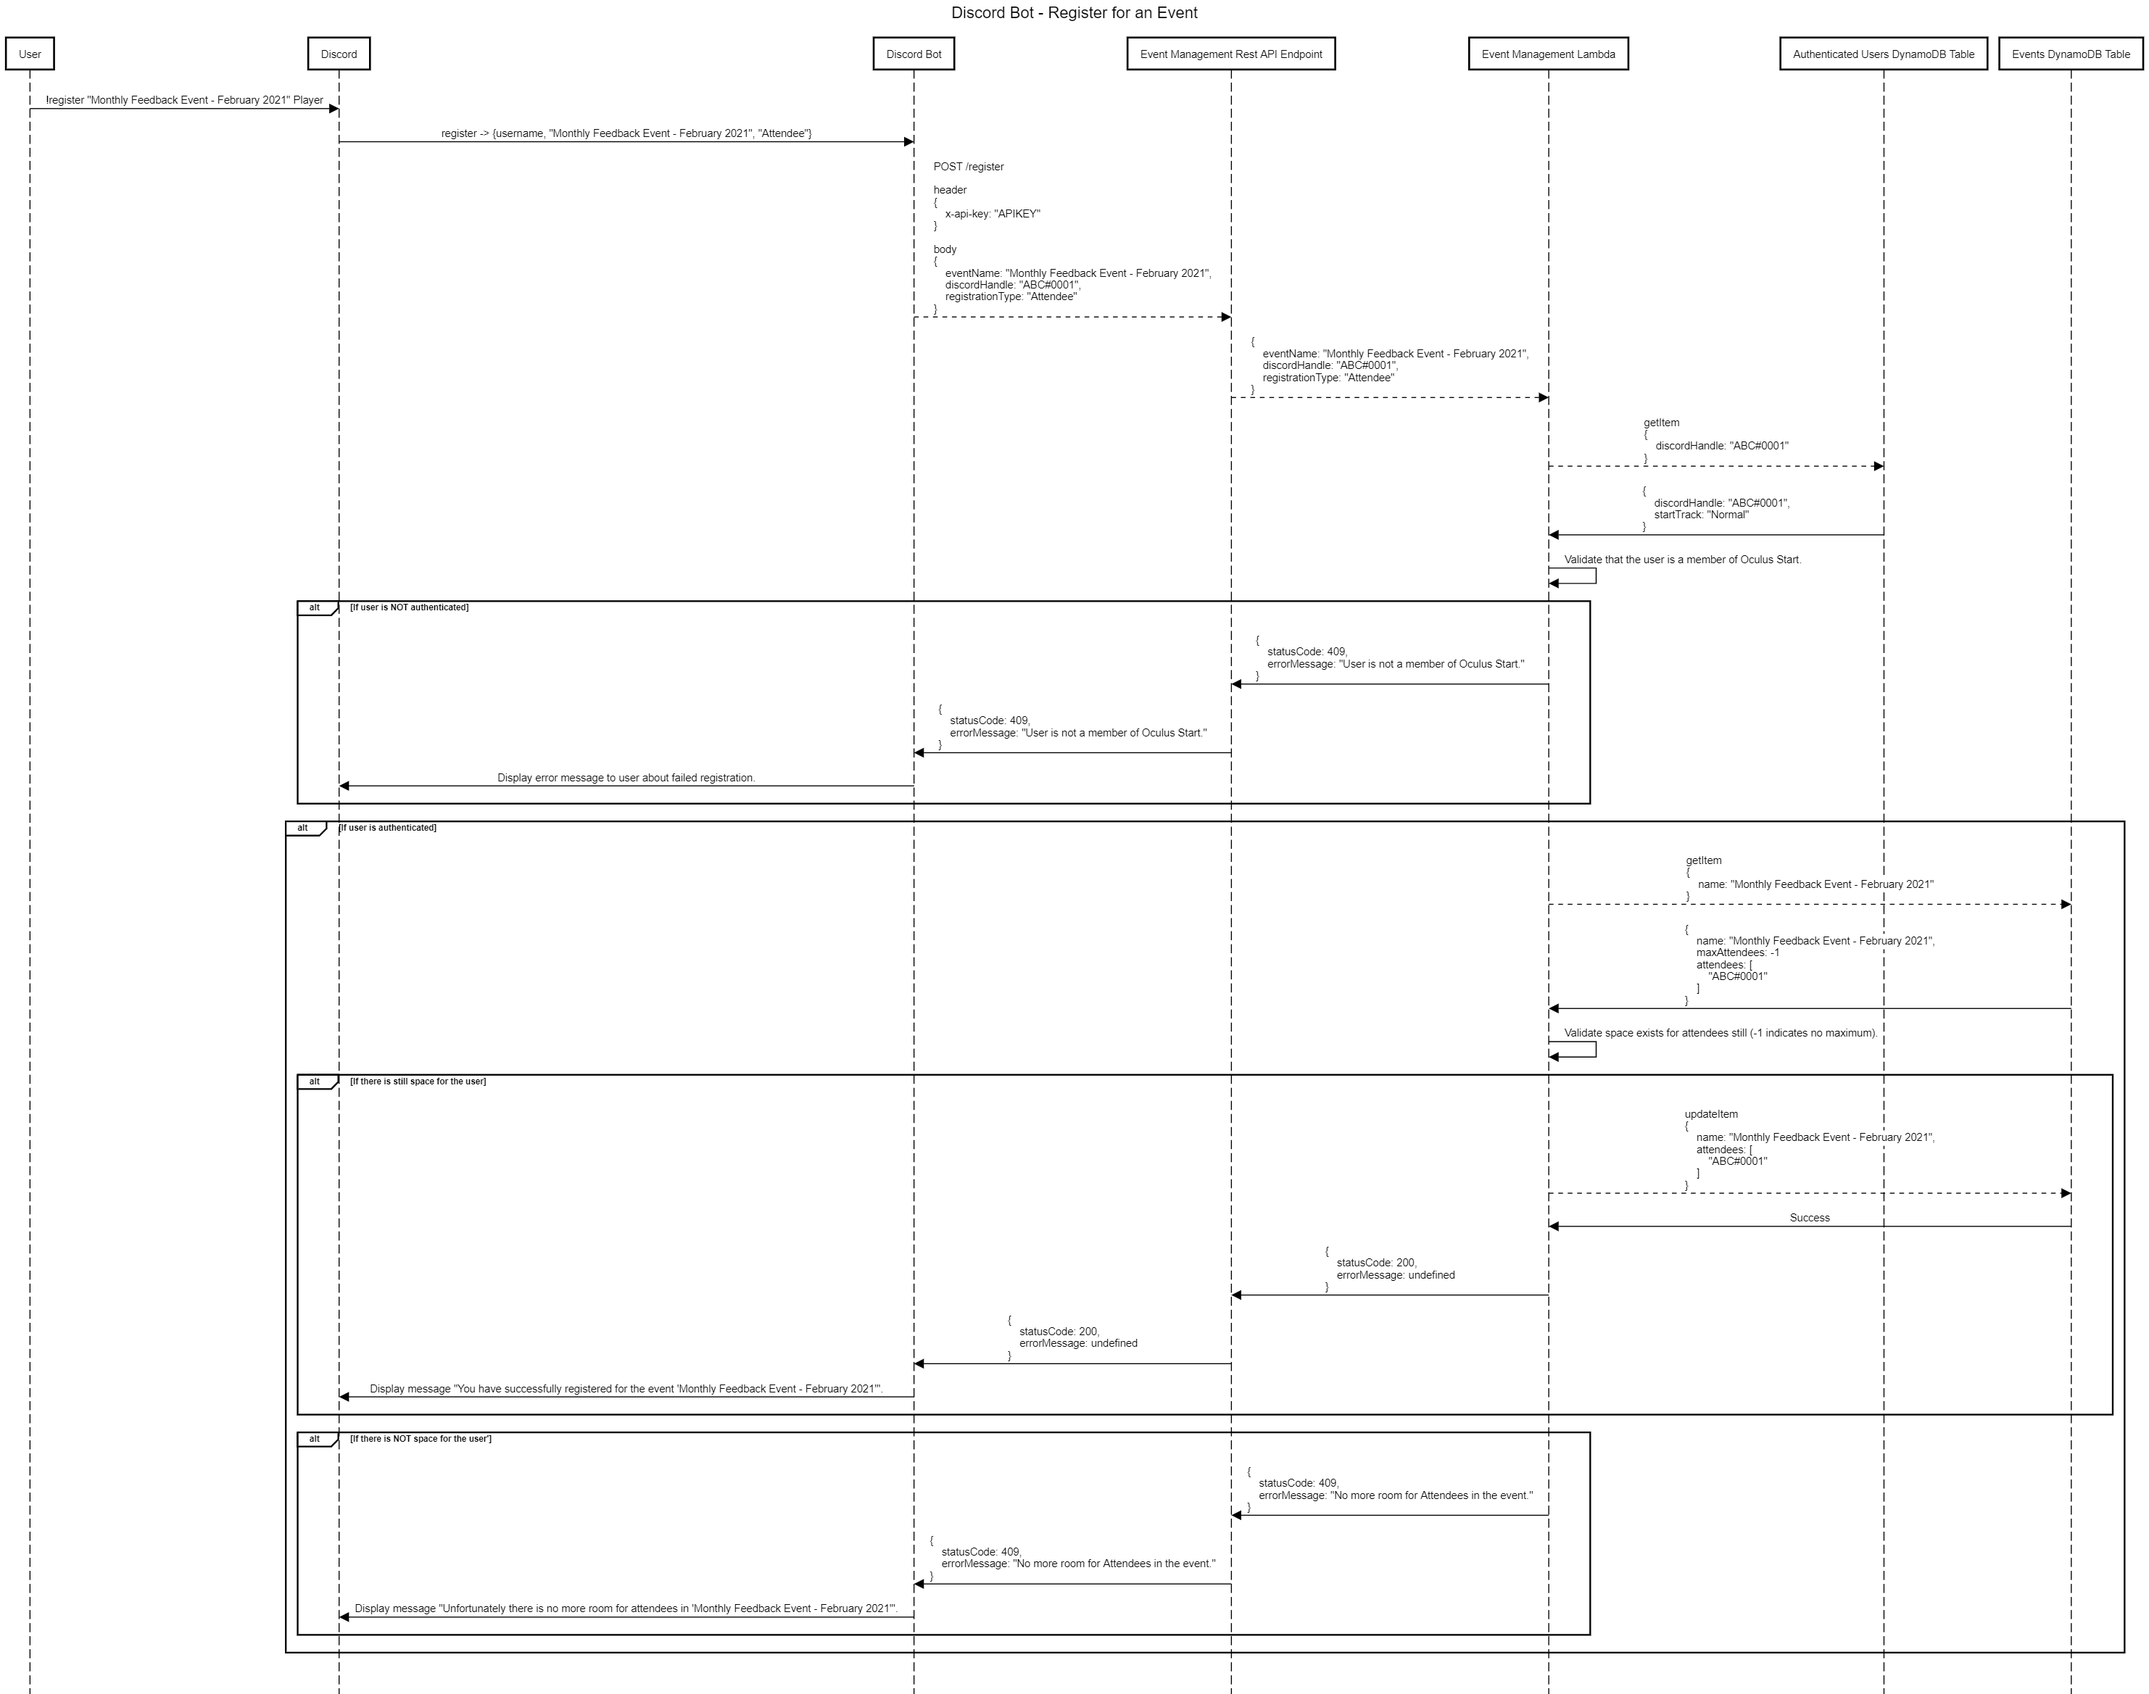
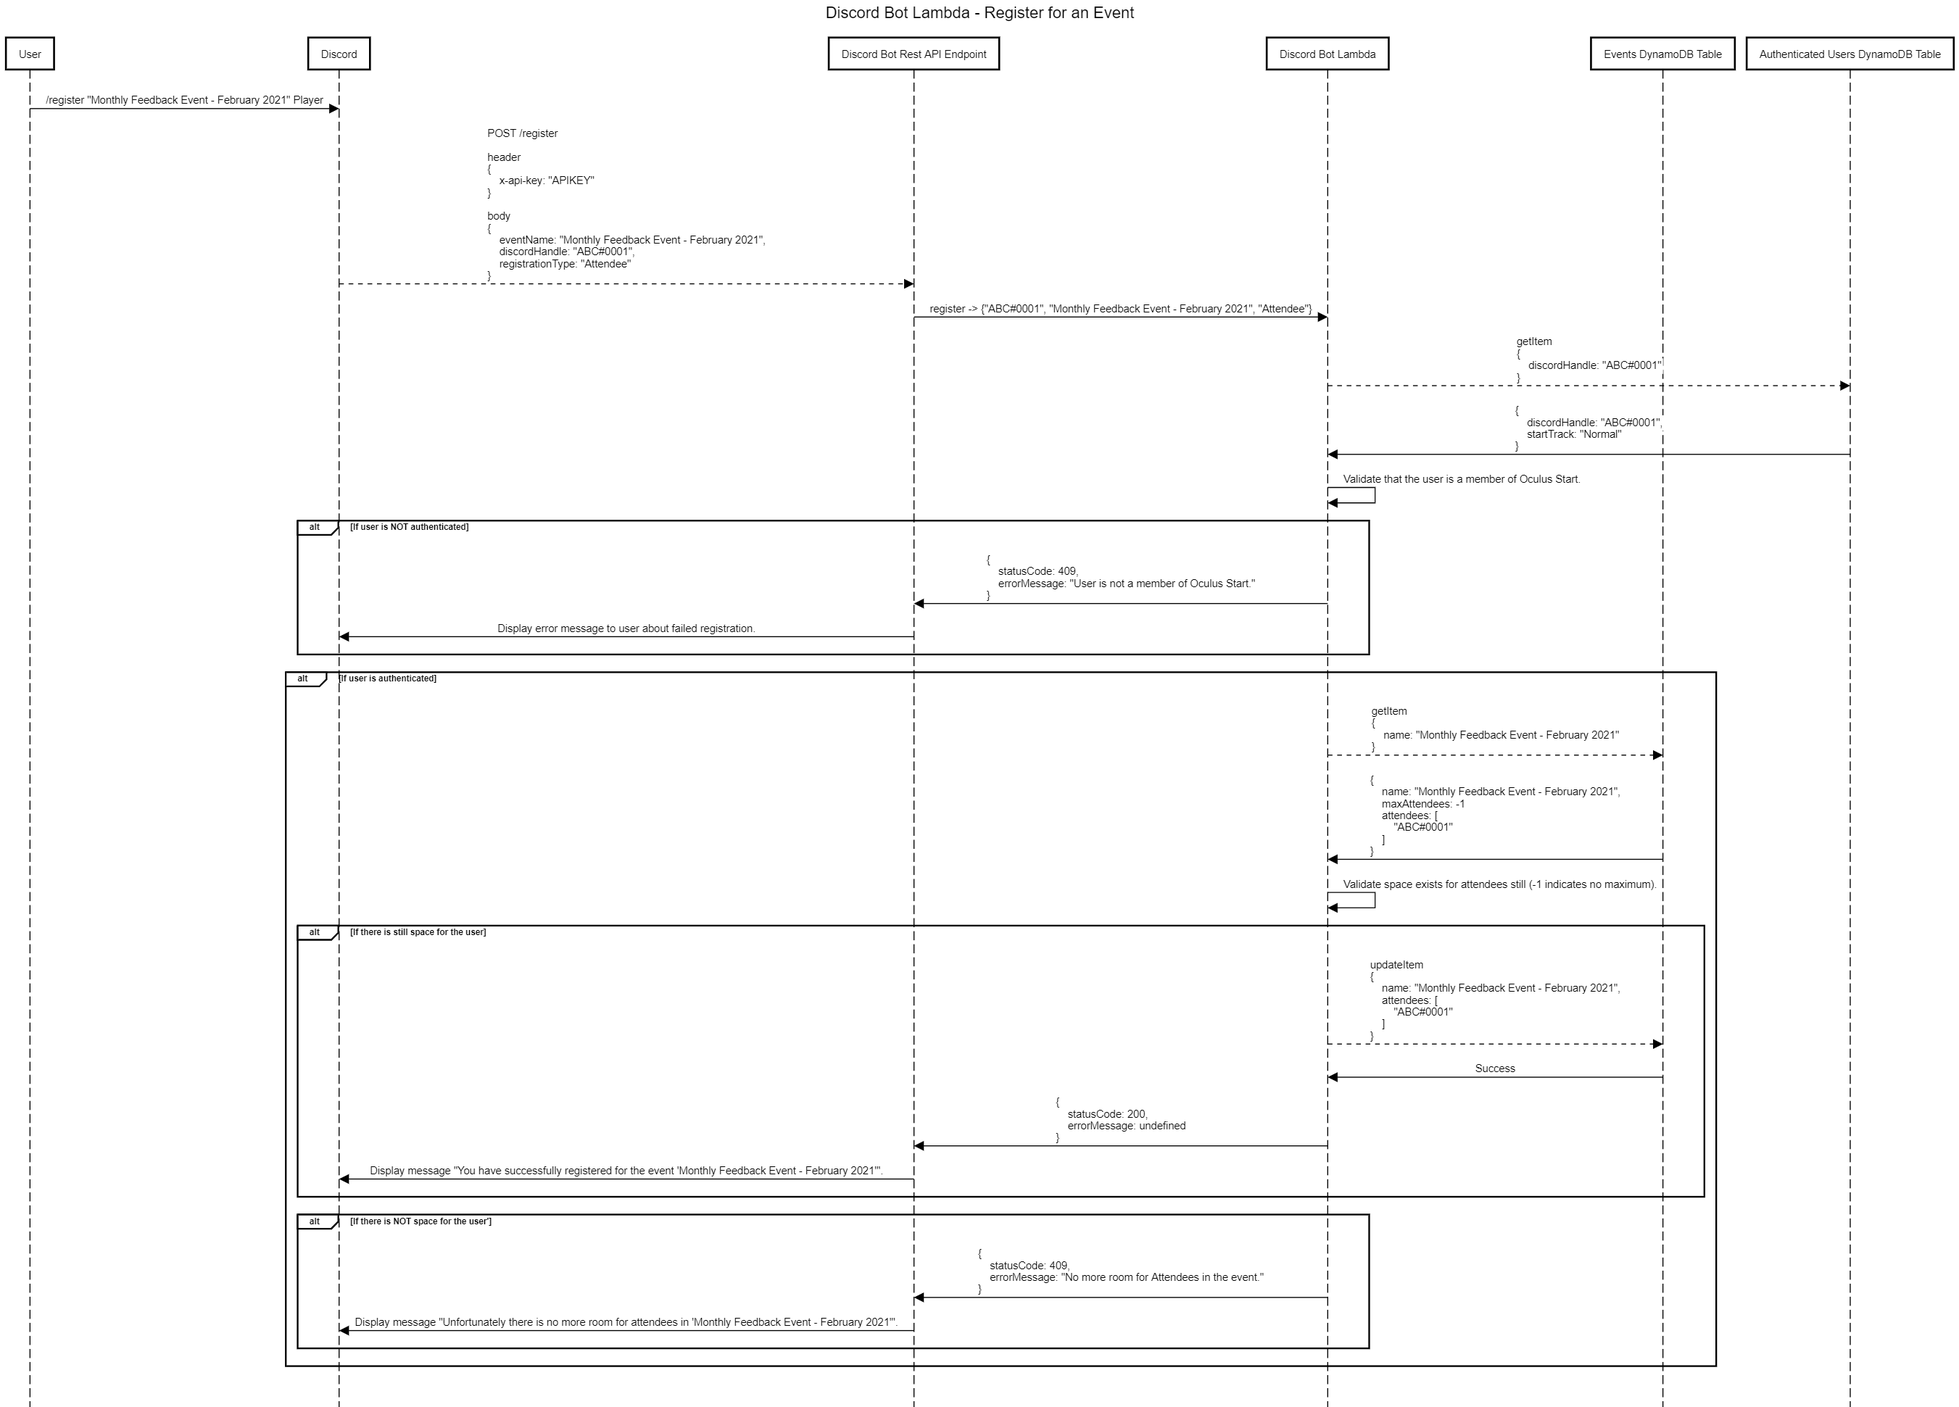
Update Architecture Plans
[Problem]
Thanks to some newly discovered Discord APIs, it is now possible to
directly update the Discord server as soon as an event occurs, rather
than waiting for the bot to see the changes.

[Solution]
Updated the architecture of the bot to instead reach out to update
server roles and such directly, greatly speeding up our ability to
perform various actions.

diff --git a/README.md b/README.md
@@ -70,10 +70,10 @@ A user's projects are formatted as a JSON document. As an example project:
 # User Flow Diagrams
 Users can interact with the bot in one of two primary ways: Via Discord with various commands from the bot, or via a website that uses the API endpoints. **As of this moment, the bot only accessible via the Discord commands. The user flows for the website examples are for potential future additions.**
 
-## User Authentication
+## Website - User Authentication Example
 ![User authentication flow diagram](diagrams/user-auth.png?raw=true)
 
-## Discord Bot - Register for Event
+## Discord Bot - Register for Event Example
 ![Registering for an event on Discord](diagrams/discord-event-registration.png?raw=true)
 
 # Contributing
